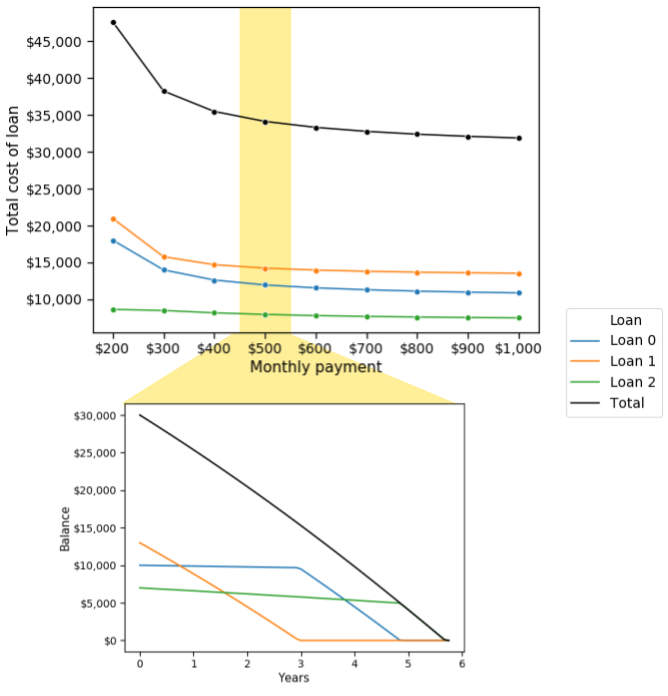
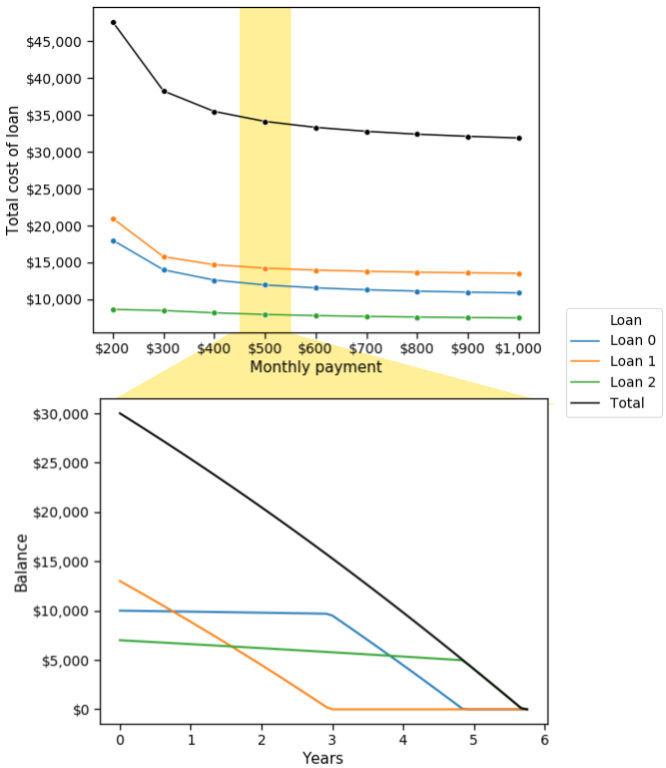
try homepage

diff --git a/README.md b/README.md
@@ -4,7 +4,7 @@ Quickly analyze the the total cost of paying off one or multiple loans
 
 
 <p align="center">
-  <img width="501" height="522" src="data/figures/multiloan_home.png"></img>
+  <img width="500" height="576" src="data/figures/multiloan_home.png"></img>
 </p>
 # Setup
 Installation:
